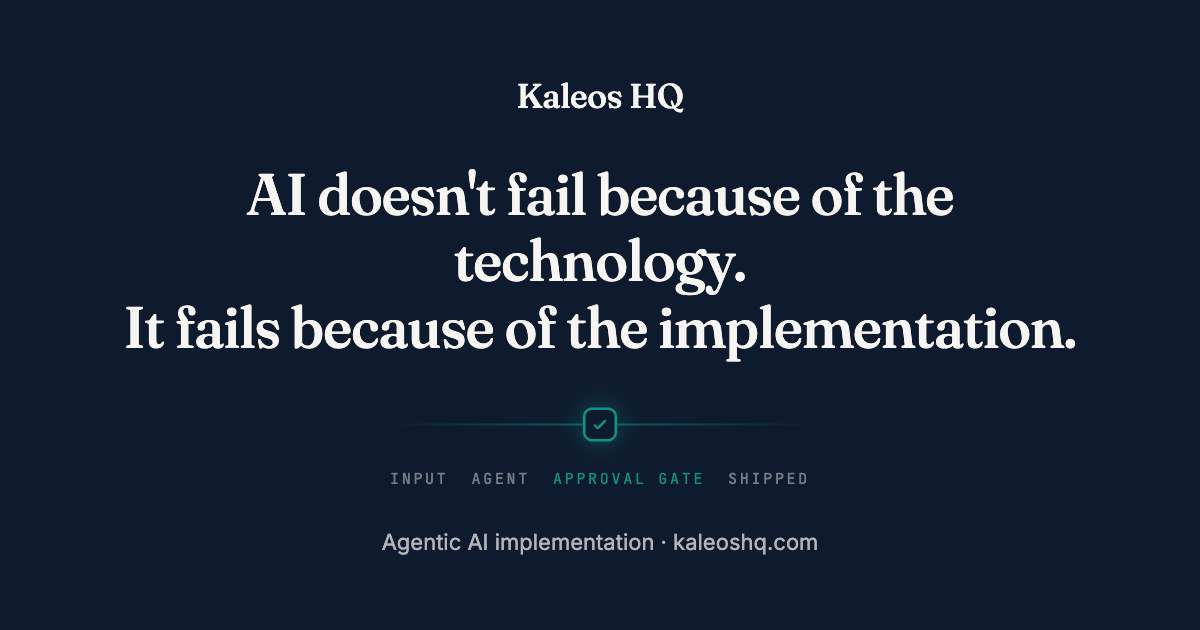
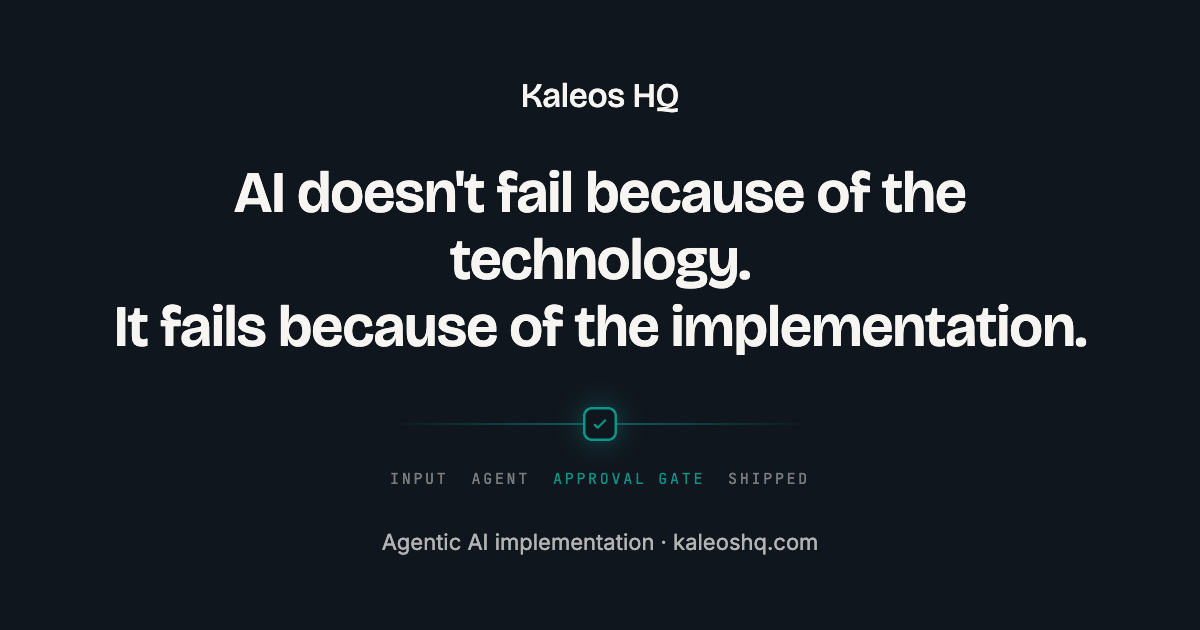
feat(v2): apply Machined Graphite direction sitewide
- Tokens: ink #10161E graphite, navy #1F2A3C graphite-blue, paper #EDF0F4 cool porcelain; teal accent and gate motif unchanged
- Display face: Bricolage Grotesque via next/font (--font-display) replaces Fraunces; hero h1 at 600 weight
- OG image regenerated in the new direction
- Live verification captures added to audits/screenshots

Changed region(s): [[0.0925, 0.3921, 0.8942, 0.573], [0.185, 0.2714, 0.8017, 0.3619], [0.4317, 0.1206, 0.5858, 0.181]]

diff --git a/src/app/globals.css b/src/app/globals.css
@@ -1,24 +1,25 @@
 @import "tailwindcss";
 
 @theme {
-  --color-ink: #0E1B2E;
-  --color-navy: #1B2A4A;
+  --color-ink: #10161E;
+  --color-navy: #1F2A3C;
   --color-accent: #0D9488;
   --color-amber: #B45309;
-  --color-paper: #F7F5F1;
+  --color-paper: #EDF0F4;
   --color-mist: #93A5BE;
   /* Legacy aliases still referenced in a few spots */
-  --color-navy-dark: #0E1B2E;
-  --color-navy-deeper: #162035;
+  --color-navy-dark: #10161E;
+  --color-navy-deeper: #161F2E;
 }
 
 html {
   scroll-behavior: smooth;
 }
 
-/* Display serif headings */
+/* Display headings: Machined Graphite direction */
 h1, h2, h3 {
-  font-family: var(--font-fraunces), Georgia, serif;
+  font-family: var(--font-display), 'Helvetica Neue', sans-serif;
+  letter-spacing: -0.02em;
 }
 
 /* Mono for system labels and operator UI */

diff --git a/src/app/layout.tsx b/src/app/layout.tsx
@@ -1,5 +1,5 @@
 import type { Metadata } from 'next'
-import { Inter, Fraunces, JetBrains_Mono } from 'next/font/google'
+import { Inter, Bricolage_Grotesque, JetBrains_Mono } from 'next/font/google'
 import { Analytics } from '@vercel/analytics/next'
 import './globals.css'
 import TalkToLogan from "@/components/TalkToLogan";
@@ -9,10 +9,10 @@ const inter = Inter({
   display: 'swap',
 })
 
-const fraunces = Fraunces({
+const bricolage = Bricolage_Grotesque({
   subsets: ['latin'],
   display: 'swap',
-  variable: '--font-fraunces',
+  variable: '--font-display',
   axes: ['opsz'],
 })
 
@@ -74,7 +74,7 @@ export default function RootLayout({
   children: React.ReactNode
 }>) {
   return (
-    <html lang="en" className={`${fraunces.variable} ${jetbrainsMono.variable}`}>
+    <html lang="en" className={`${bricolage.variable} ${jetbrainsMono.variable}`}>
       <body
         className={`${inter.className} antialiased bg-paper text-slate-700`}
       >

diff --git a/src/app/page.tsx b/src/app/page.tsx
@@ -109,7 +109,7 @@ export default function Home() {
       {/* Hero */}
       <section className="relative bg-paper pt-40 pb-24">
         <div className="relative max-w-4xl mx-auto px-4 text-center">
-          <h1 className="text-4xl sm:text-5xl md:text-6xl font-medium tracking-tight leading-[1.1] mb-8 text-ink">
+          <h1 className="text-4xl sm:text-5xl md:text-6xl font-semibold tracking-tight leading-[1.1] mb-8 text-ink">
             AI doesn&apos;t fail because of the technology.
             <br />
             It fails because of the implementation.

diff --git a/src/components/NavBar.tsx b/src/components/NavBar.tsx
@@ -40,7 +40,7 @@ export function NavBar() {
           />
           <span
             className="text-navy font-semibold text-lg tracking-tight"
-            style={{ fontFamily: 'var(--font-fraunces), Georgia, serif' }}
+            style={{ fontFamily: 'var(--font-display), sans-serif' }}
           >
             Kaleos HQ
           </span>

diff --git a/src/components/TalkToLogan.jsx b/src/components/TalkToLogan.jsx
@@ -38,7 +38,7 @@ export default function TalkToLogan() {
     {!isOpen&&(<div onClick={()=>{setIsOpen(true);setPulse(false);}} style={{position:"fixed",bottom:24,right:24,zIndex:9999,display:"flex",alignItems:"center",gap:12,background:"linear-gradient(135deg,#1B2A4A,#2a3f6e)",border:"1px solid rgba(255,255,255,.1)",borderRadius:60,padding:"14px 24px 14px 18px",cursor:"pointer",boxShadow:"0 8px 32px rgba(13,148,136,.3),0 2px 8px rgba(0,0,0,.2)",transition:"all .3s ease",animation:pulse?"ltlPulse 2s ease-in-out infinite":"none"}}><div style={{width:42,height:42,flexShrink:0,position:"relative"}}><img src="/photo.png" alt="Logan Kay" style={{width:42,height:42,borderRadius:"50%",objectFit:"cover"}}/><div style={{position:"absolute",bottom:0,right:0,width:10,height:10,borderRadius:"50%",background:"#22c55e",border:"2px solid #1B2A4A"}}/></div><div><div style={{color:"white",fontFamily:"'Inter',sans-serif",fontSize:15,fontWeight:600,letterSpacing:"-.01em"}}>Talk to Logan</div><div style={{color:"rgba(255,255,255,.55)",fontFamily:"'Inter',sans-serif",fontSize:11,marginTop:1}}>Free AI consultation</div></div></div>)}
     {isOpen&&(<div onClick={()=>setIsOpen(false)} style={{position:"fixed",inset:0,background:"rgba(0,0,0,.35)",backdropFilter:"blur(4px)",zIndex:10000,animation:"ltlFadeUp .2s ease"}}/>)}
     {isOpen&&(<div style={{position:"fixed",bottom:24,right:24,width:"min(440px,calc(100vw - 48px))",height:"min(680px,calc(100vh - 48px))",zIndex:10001,display:"flex",flexDirection:"column",background:"linear-gradient(180deg,#0f1a2e,#162033)",borderRadius:20,border:"1px solid rgba(255,255,255,.08)",boxShadow:"0 24px 80px rgba(0,0,0,.5),0 0 0 1px rgba(13,148,136,.1)",overflow:"hidden",animation:"ltlFadeUp .3s cubic-bezier(.4,0,.2,1)"}}>
-      <div style={{padding:"20px 20px 16px",display:"flex",alignItems:"center",gap:14,background:"linear-gradient(135deg,rgba(13,148,136,.06),rgba(27,42,74,.4))",borderBottom:"1px solid rgba(255,255,255,.06)"}}><div style={{width:44,height:44,flexShrink:0,position:"relative"}}><img src="/photo.png" alt="Logan Kay" style={{width:44,height:44,borderRadius:"50%",objectFit:"cover"}}/><div style={{position:"absolute",bottom:1,right:1,width:10,height:10,borderRadius:"50%",background:"#22c55e",border:"2px solid #0f1a2e"}}/></div><div style={{flex:1}}><div style={{color:"white",fontFamily:"var(--font-fraunces),Georgia,serif",fontSize:17,fontWeight:600}}>Logan Kay</div><div style={{color:"rgba(255,255,255,.4)",fontFamily:"'Inter',sans-serif",fontSize:12,marginTop:2}}>Founder, Kaleos HQ</div></div><button onClick={()=>setIsOpen(false)} style={{width:32,height:32,borderRadius:"50%",border:"none",background:"rgba(255,255,255,.06)",color:"rgba(255,255,255,.5)",cursor:"pointer",display:"flex",alignItems:"center",justifyContent:"center",fontSize:16,fontFamily:"sans-serif"}}>✕</button></div>
+      <div style={{padding:"20px 20px 16px",display:"flex",alignItems:"center",gap:14,background:"linear-gradient(135deg,rgba(13,148,136,.06),rgba(27,42,74,.4))",borderBottom:"1px solid rgba(255,255,255,.06)"}}><div style={{width:44,height:44,flexShrink:0,position:"relative"}}><img src="/photo.png" alt="Logan Kay" style={{width:44,height:44,borderRadius:"50%",objectFit:"cover"}}/><div style={{position:"absolute",bottom:1,right:1,width:10,height:10,borderRadius:"50%",background:"#22c55e",border:"2px solid #0f1a2e"}}/></div><div style={{flex:1}}><div style={{color:"white",fontFamily:"var(--font-display),sans-serif",fontSize:17,fontWeight:600}}>Logan Kay</div><div style={{color:"rgba(255,255,255,.4)",fontFamily:"'Inter',sans-serif",fontSize:12,marginTop:2}}>Founder, Kaleos HQ</div></div><button onClick={()=>setIsOpen(false)} style={{width:32,height:32,borderRadius:"50%",border:"none",background:"rgba(255,255,255,.06)",color:"rgba(255,255,255,.5)",cursor:"pointer",display:"flex",alignItems:"center",justifyContent:"center",fontSize:16,fontFamily:"sans-serif"}}>✕</button></div>
       <div className="ltl-scroll" style={{flex:1,overflowY:"auto",padding:20,display:"flex",flexDirection:"column",gap:14}}>{messages.map((m,i)=>(<div key={i} style={{maxWidth:"85%",padding:"12px 16px",borderRadius:m.role==="assistant"?"16px 16px 16px 4px":"16px 16px 4px 16px",background:m.role==="assistant"?"rgba(255,255,255,.06)":"linear-gradient(135deg,#0d9488,#0f766e)",border:m.role==="assistant"?"1px solid rgba(255,255,255,.04)":"none",color:m.role==="assistant"?"rgba(255,255,255,.88)":"white",fontFamily:"'Inter',sans-serif",fontSize:14,lineHeight:1.55,alignSelf:m.role==="assistant"?"flex-start":"flex-end",animation:"ltlFadeUp .25s ease"}}>{m.content}</div>))}{loading&&(<div style={{display:"flex",gap:5,padding:"12px 16px",alignSelf:"flex-start"}}>{[0,0.15,0.3].map((d,i)=>(<div key={i} style={{width:7,height:7,borderRadius:"50%",background:"rgba(255,255,255,.3)",animation:`ltlBounce 1.2s ease-in-out ${d}s infinite`}}/>))}</div>)}<div ref={endRef}/></div>
       {showCTA&&(<div style={{padding:"10px 20px 4px"}}><div style={{padding:"10px 14px",borderRadius:"14px",background:"rgba(13,148,136,.08)",border:"1px solid rgba(13,148,136,.15)",color:"rgba(255,255,255,.75)",fontFamily:"'Inter',sans-serif",fontSize:13,lineHeight:1.5,marginBottom:10}}>Sounds like we should talk! Here&apos;s how to take the next step:</div><div style={{display:"flex",gap:8,flexWrap:"wrap"}}><button onClick={()=>window.open("https://calendly.com/logan-kaleoshq/30min","_blank")} style={{padding:"9px 16px",borderRadius:20,border:"none",background:"linear-gradient(135deg,#0d9488,#0f766e)",color:"white",fontFamily:"'Inter',sans-serif",fontSize:13,fontWeight:600,cursor:"pointer",transition:"all .2s"}}>Book a Discovery Call</button><button onClick={()=>window.open("mailto:[email redacted]?subject=Interested%20in%20Kaleos&body=Hi%20Logan%2C%20I'd%20like%20to%20learn%20more%20about%20how%20Kaleos%20can%20help%20my%20business.")} style={{padding:"9px 16px",borderRadius:20,border:"1px solid rgba(13,148,136,.3)",background:"rgba(13,148,136,.1)",color:"#5eead4",fontFamily:"'Inter',sans-serif",fontSize:13,fontWeight:500,cursor:"pointer",transition:"all .2s"}}>Email me directly</button></div></div>)}
       <div style={{padding:"14px 20px 20px",borderTop:"1px solid rgba(255,255,255,.06)",display:"flex",gap:10,alignItems:"flex-end"}}><textarea ref={inputRef} value={input} onChange={(e)=>setInput(e.target.value)} onKeyDown={(e)=>{if(e.key==="Enter"&&!e.shiftKey){e.preventDefault();send();}}} placeholder="Tell me about your business..." rows={1} style={{flex:1,padding:"12px 16px",borderRadius:14,border:"1px solid rgba(255,255,255,.1)",background:"rgba(255,255,255,.04)",color:"white",fontFamily:"'Inter',sans-serif",fontSize:14,outline:"none",resize:"none",lineHeight:1.4}}/><button onClick={send} disabled={!input.trim()||loading} style={{width:42,height:42,borderRadius:12,border:"none",background:input.trim()?"linear-gradient(135deg,#0d9488,#0f766e)":"rgba(255,255,255,.06)",color:input.trim()?"white":"rgba(255,255,255,.2)",cursor:input.trim()?"pointer":"default",display:"flex",alignItems:"center",justifyContent:"center",flexShrink:0,transition:"all .2s"}}><svg width="18" height="18" viewBox="0 0 24 24" fill="none" stroke="currentColor" strokeWidth="2.5" strokeLinecap="round" strokeLinejoin="round"><line x1="22" y1="2" x2="11" y2="13"/><polygon points="22 2 15 22 11 13 2 9 22 2"/></svg></button></div>

diff --git a/audits/V2-DESIGN-DECISIONS.md b/audits/V2-DESIGN-DECISIONS.md
@@ -64,3 +64,6 @@ Logan flagged the warm-cream plus high-contrast-serif look as the current defaul
 Rationale: keeps the premium, established temperature and the approval-gate signature exactly as is, but swaps the two elements that pattern-match to the AI-default look (warm cream field, high-contrast display serif) for a cool, machined engineering feel that matches "systems firm" better than "editorial studio." Nothing else changes: layout, motion budget, gate motif, and card system carry over 1:1.
 
 If approved, the sitewide swap is a token update in globals.css plus the font change in layout.tsx, roughly 30 minutes including re-verification and a fresh OG image.
+
+### Decision: Machined Graphite APPLIED (2026-07-11)
+Logan approved the proposal on preview review. Applied sitewide: graphite token set (ink #10161E, navy #1F2A3C, porcelain #EDF0F4), Bricolage Grotesque as the display face via next/font (variable --font-display), hero h1 at 600 weight, OG image regenerated. Fraunces removed. Live captures: audits/screenshots/hero-graphite-live.jpeg and dark-graphite-live.jpeg.